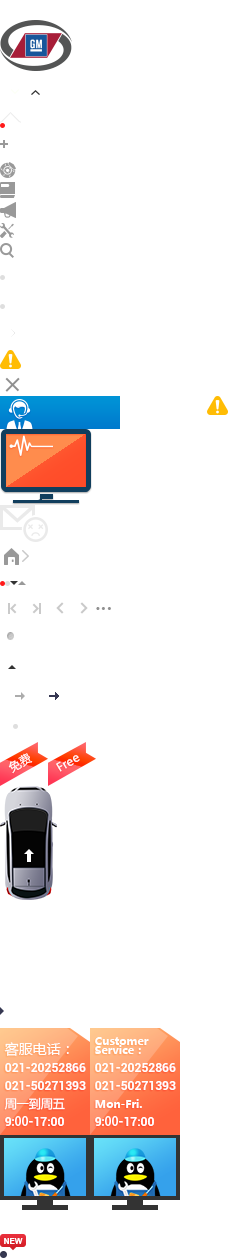
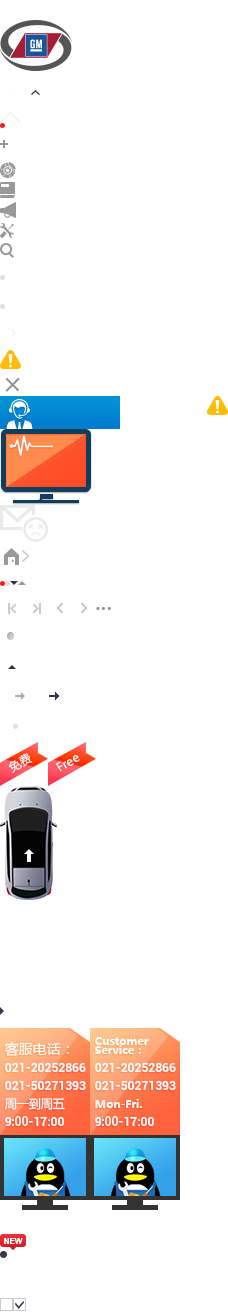
提交修改

diff --git a/tis-portal/tis-portal-2.0/styles/frame.css b/tis-portal/tis-portal-2.0/styles/frame.css
@@ -956,28 +956,70 @@ body.en .portal-module dd .right-text div {
 
 .dialog-box-remind .dialog-header {
   border-bottom: 1px solid #ebebeb;
-  height: 39px;
-  line-height: 38px;
+  height: 35px;
+  line-height: 34px;
   background: #353751;
   width: 100%;
-  padding-left: 18px;
+  padding: 0 12px 0 20px;
   font-size: 14px;
   position: relative;
   color: #fff;
 }
 
-.dialog-box-remind .dialog-header .btn-close {
+.dialog-box-remind .dialog-header .btn {
   display: inline-block;
-  width: 24px;
-  height: 24px;
-  background: url(images/icons.png) 0 -1210px no-repeat;
+  width: 30px;
+  height: 34px;
   float: right;
-  margin: 7px 10px;
-  *position: absolute;
-  *right: 10px;
-  *top: 7px;
-  *z-index: 1300;
-  *margin: 0;
+}
+
+.dialog-box-remind .dialog-header .btn-refresh {
+  background: url(images/icons.png) 0 -1258px no-repeat;
+}
+
+.dialog-box-remind .dialog-header .btn-close {
+  background: url(images/icons.png) -30px -1258px no-repeat;
+}
+
+.dialog-box-remind .dialog-header .btn-open {
+  background: url(images/icons.png) -60px -1258px no-repeat;
+}
+
+.dialog-box-remind .dialog-footer {
+  border-top: 1px solid #e0e3d5;
+  height: 25px;
+  line-height: 24px;
+  background: #f0f0f0;
+  font-size: 12px;
+  text-align: center;
+}
+
+.dialog-box-remind .dialog-footer .btn-remind {
+  cursor: pointer;
+  position: relative;
+  padding-left: 18px;
+  color: #5C5D68;
+  height: 24px;
+  display: inline-block;
+}
+.dialog-box-remind .dialog-footer .btn-remind:before {
+  content: '';
+  position: absolute;
+  left: 0;
+  top: 0;
+  width: 13px;
+  height: 24px;
+  background: url(images/icons.png) 0 -1292px no-repeat;
+}
+
+.dialog-box-remind .dialog-footer .btn-remind.checked:before {
+  content: '';
+  position: absolute;
+  left: 0;
+  top: 0;
+  width: 13px;
+  height: 24px;
+  background: url(images/icons.png) -13px -1292px no-repeat;
 }
 
 .remind-box {

diff --git a/tis-portal/tis-portal-2.0/styles/scss/frame.scss b/tis-portal/tis-portal-2.0/styles/scss/frame.scss
@@ -939,28 +939,77 @@ body.en {
 
 .dialog-box-remind .dialog-header {
  border-bottom: 1px solid #ebebeb;
- height: 39px;
- line-height: 38px;
+ height: 35px;
+ line-height: 34px;
  background: #353751;
  width: 100%;
- padding-left: 18px;
+ padding: 0 12px 0 20px;
  font-size: 14px;
  position: relative;
  color: #fff;
 }
 
-.dialog-box-remind .dialog-header .btn-close {
+.dialog-box-remind .dialog-header .btn {
  display: inline-block;
- width: 24px;
- height: 24px;
- background: url(images/icons.png) 0 -1210px no-repeat;
+ width: 30px;
+ height: 34px;
  float: right;
- margin: 7px 10px;
- *position: absolute;
- *right: 10px;
- *top: 7px;
- *z-index: 1300;
- *margin: 0;
+}
+
+.dialog-box-remind .dialog-header .btn-refresh {
+ background: url(images/icons.png) 0 -1258px no-repeat;
+}
+
+.dialog-box-remind .dialog-header .btn-close {
+ background: url(images/icons.png) -30px -1258px no-repeat;
+}
+
+.dialog-box-remind .dialog-header .btn-open {
+
+ background: url(images/icons.png) -60px -1258px no-repeat;
+}
+
+.dialog-box-remind .dialog-footer{
+ border-top: 1px solid #e0e3d5;
+ height: 25px;
+ line-height: 24px;
+ background: #f0f0f0;
+ font-size:12px;
+ text-align: center;
+}
+
+.dialog-box-remind .dialog-footer .btn-remind{
+ cursor:pointer;
+ position: relative;
+ padding-left: 18px;
+ color: #5C5D68;
+ height: 24px;
+ display: inline-block;
+
+ &:before{
+
+  content: '';
+  position: absolute;
+  left:0;
+  top:0;
+  width: 13px;
+  height: 24px;
+  background: url(images/icons.png) 0 -1292px no-repeat;
+ }
+}
+
+.dialog-box-remind .dialog-footer .btn-remind.checked{
+
+ &:before{
+
+  content: '';
+  position: absolute;
+  left:0;
+  top:0;
+  width: 13px;
+  height: 24px;
+  background: url(images/icons.png) -13px -1292px no-repeat;
+ }
 }
 
 .remind-box {

diff --git a/tis-portal/tis-portal-2.0/htmls/index-2.html b/tis-portal/tis-portal-2.0/htmls/index-2.html
@@ -451,7 +451,7 @@
 </figure>
 
 <div class="dialog-box-remind" id="dialog-box-price">
-  <div class="dialog-header">提醒<span class="btn btn-close" id="dialog-btn-close-price"></span></div>
+  <div class="dialog-header">提醒<span class="btn btn-close"></span><span class="btn btn-refresh"></span></div>
   <div class="dialog-content-remind">
     <div class="remind-box">
       <div class="remind-item">
@@ -491,8 +491,8 @@
       </div>
     </div>
   </div>
+  <div class="dialog-footer"><span class="btn btn-remind">不再提醒</span></div>
 </div>
-
 
 <script type="text/javascript" src="../scripts/local_bootstrap.js"></script>
 </body>
